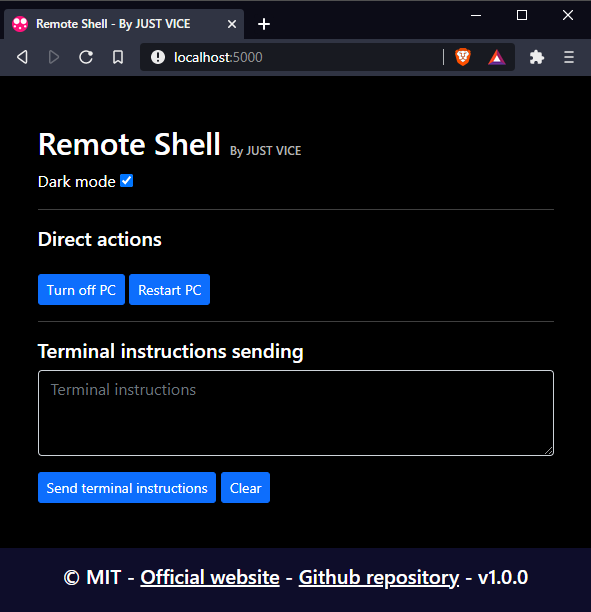
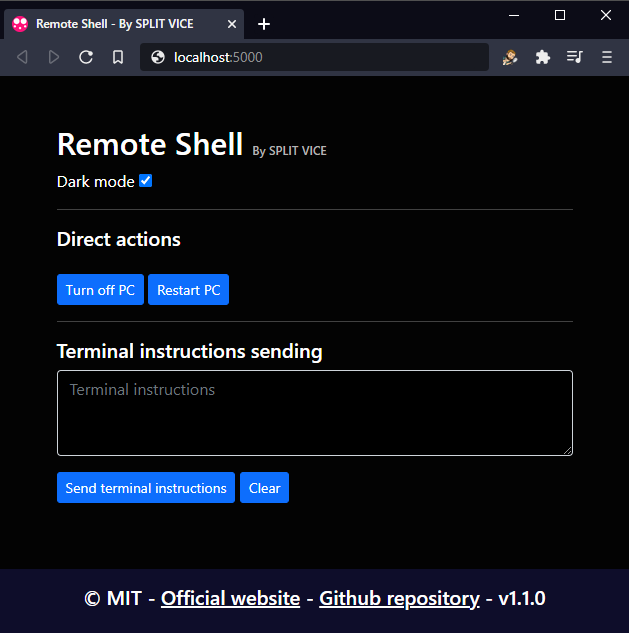
SPLIT Patch

diff --git a/src/public/index.html b/src/public/index.html
@@ -6,7 +6,7 @@
     <meta http-equiv="X-UA-Compatible" content="IE=edge">
     <meta name="viewport" content="width=device-width, initial-scale=1.0">
     <link rel="shortcut icon" type="image/png" href="./img/favicon.png">
-    <title>Remote Shell - By JUST VICE</title>
+    <title>Remote Shell - By SPLIT VICE</title>
 
     <!-- BOOTSTRAP -->
     <link rel="stylesheet" href="./external/bootstrap.5.0.0-beta2.min.css">
@@ -24,7 +24,7 @@
     <div class="container mt-5">
 
         <div class='h1'>Remote Shell <span class='title__vice'>By <a href="http://just-vice.com/s/twitter"
-                    target="_blank">JUST VICE</a></span></div>
+                    target="_blank">SPLIT VICE</a></span></div>
 
         Dark mode
         <input type="checkbox" id="checkbox__darkmode" checked>
@@ -60,15 +60,15 @@
             -
             <a href="http://just-vice.com/technology/web-software/remote-shell/" target="_blank">Official website</a>
             -
-            <a href="https://github.com/JustVice/Remote-Shell" target="_blank">Github repository</a>
+            <a href="https://github.com/SplitVice/Remote-Shell" target="_blank">Github repository</a>
             -
-            v1.1.0
+            v1.1.1
         </div>
     </footer>
 
     <div id='inki__div'></div>
 
-    <h1 class='invisible'>Remote Shell - By JUST VICE</h1>
+    <h1 class='invisible'>Remote Shell - By SPLIT VICE</h1>
 
     <div id='div__style'>
         <link rel="stylesheet" href="./css/style__dark.css">

diff --git a/src/libs/Console_OutPuts.js b/src/libs/Console_OutPuts.js
@@ -12,7 +12,7 @@ module.exports = class console_outputs {
 ██████  █████   ██ ████ ██ ██    ██    ██    █████       ███████ ███████ █████   ██      ██ 
 ██   ██ ██      ██  ██  ██ ██    ██    ██    ██               ██ ██   ██ ██      ██      ██ 
 ██   ██ ███████ ██      ██  ██████     ██    ███████     ███████ ██   ██ ███████ ███████ ███████ 
---- By JUST VICE ---
+--- By SPLIT VICE ---
 
 Visit ${this.IPv4}:${this.port} on an Internet browser to use the web application.
 -------------------------------------------------------------------------------------------------

diff --git a/README.MD b/README.MD
@@ -1,9 +1,9 @@
-[![N|Solid](https://dl.dropboxusercontent.com/s/4rkbkdirpmjdc81/viceReadmeMDImage.png?dl=0)](http://just-vice.com)
+[![N|Solid](https://dl.dropboxusercontent.com/s/oy06v7r8d871cr8/splitvice-banner.png?dl=0)](http://split-vice.com)
 
 [![MIT license](https://img.shields.io/badge/License-MIT-blue.svg)](https://lbesson.mit-license.org/)
 # Description
 Remote Shell allows you to execute MsDOS commands on the computer that is serving the web application.
-[Oficial website](http://just-vice.com/technology/web-software/remote-shell/)
+[Oficial website](http://split-vice.com/technology/web-software/remote-shell/)
 
 ![Remote Shell demo](./src/public/img/demo.png)
 # Technical specs
